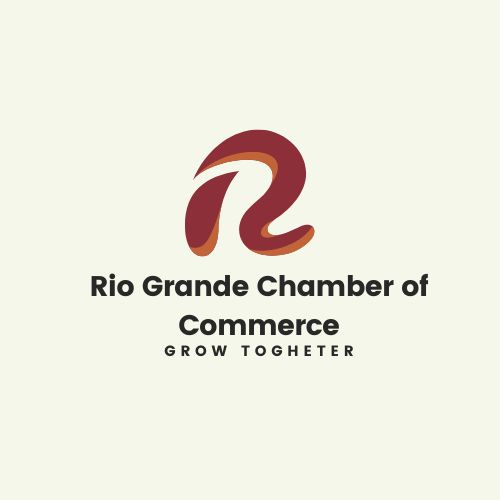
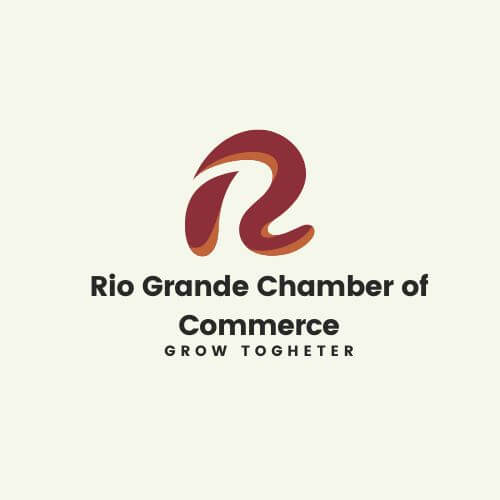
continued editing 2nd page

diff --git a/lesson3/index.html b/lesson3/index.html
@@ -31,13 +31,12 @@
     <main>
         <h2>Rio Grande Chamber of Commerce</h2>
 
-        <section title="Purpose">
-        <h3>Purpose</h3>
-        <p>This website will allow local, small, medium and large businesses to have a place to gather up and strenghten each other. For this Rio Grande Chamber of Commerce webpage will allow visitors to get to know the different businesses in the area and their main public events, job fairs, and any other relevant information they would need to contact local businesses. Our goal is to help local businesses be visible and build alliances with related businesses.</p>
-        </section>
-        
         <img src="images/Rio Grande Chamber of Commerce.jpg" alt="This is the logo for the site">
 
+        <section title="Purpose">
+            <h3>Purpose</h3>
+            <p>This website will allow local, small, medium and large businesses to have a place to gather up and strenghten each other. For this Rio Grande Chamber of Commerce webpage will allow visitors to get to know the different businesses in the area and their main public events, job fairs, and any other relevant information they would need to contact local businesses. Our goal is to help local businesses be visible and build alliances with related businesses.</p>
+            </section>
     </main>    
     <footer>
         <p>&copy;<span id="copyright-year"></span> .:|:. Abraham Galicia .:|:. Mexico</p>

diff --git a/lesson3/styles/small.css b/lesson3/styles/small.css
@@ -58,7 +58,8 @@ main h3 {
 
 main p {
     font-size: 2rem ;
-    padding: .5rem .5rem;
+    padding: 1rem 1rem;
+    margin-bottom: 4rem;
 }
 
 img {
@@ -74,4 +75,25 @@ footer p {
     padding-top: 10px;
     text-align: center;
     margin-bottom: 0;
+}
+
+/*This is for the target-audience page*/
+
+#Carlos ul, #Margarita ul {
+    list-style: none;
+    padding: 0;
+}
+
+#Carlos, #Margarita {
+    display: flex;
+    flex-direction: column;
+    background-color: #8C2F39;
+    border-radius: 1rem;
+    margin: 2rem 2rem;
+    box-shadow: 0 4px 8px 0 rgba(0,0,0,0.2);
+
+}
+
+#Carlos img {
+justify-content: center;
 }

diff --git a/lesson3/styles/medium.css b/lesson3/styles/medium.css
@@ -1,3 +1,14 @@
 @media screen and (min-width: 32.5em) {
 
+    header ul {
+        display: flex;
+    }
+    header li {
+        flex:1;
+    }
+
+    img {
+        max-width: 50%;
+    }
+
 }

diff --git a/lesson3/styles/large.css b/lesson3/styles/large.css
@@ -1,3 +1,7 @@
 @media screen and (min-width: 64em) {
 
+    img {
+        width: 30%;
+    }
+
 }
